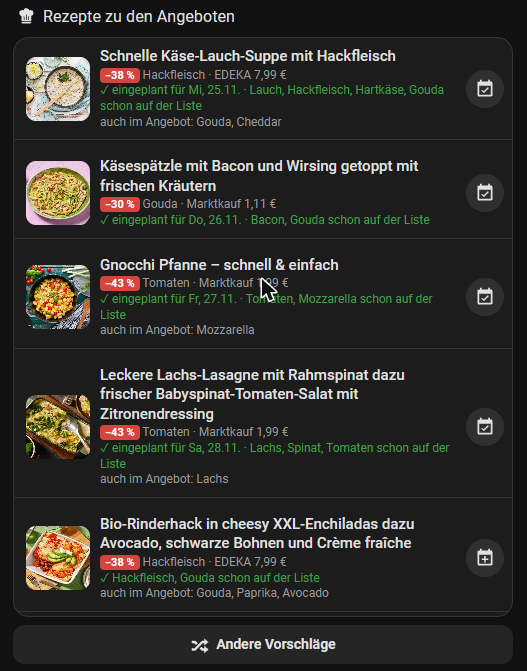
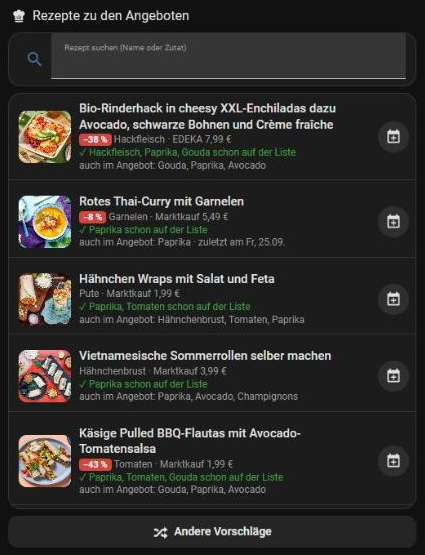
Rezeptvorschläge einstellbar: Anzahl, Plätze ohne Fleisch und Fisch, vegetarisch oder vegan
Neuer Schritt „Rezepte“ in den Einstellungen. Vegan wird aus den Zutaten erkannt.
README und Bilder zeigen die Wochenleiste.

Claude-Session: https://claude.ai/code/session_01HWdxVrkmvhkrAt14mXZQy1

diff --git a/custom_components/wochenkorb/recipes.py b/custom_components/wochenkorb/recipes.py
@@ -121,6 +121,31 @@ def is_vegetarian(ingredient_texts):
     return True
 
 
+# Tierisches außer Fleisch und Fisch (für "vegan"); pflanzliche Namensvettern wie Kokosmilch oder Erdnussbutter zählen nicht
+_PLANT_RE = re.compile(
+    r"(kokos|hafer|soja|mandel|reis|erbsen|cashew|dinkel|nuss|lupinen)[ -]?(milch|sahne|drink|joghurt|jogurt|creme|cuisine|quark|butter)|"
+    r"(erdnuss|mandel|kakao|cashew|nuss|sesam)(butter|mus)|butter(bohne|nut)|kokosfett|pflanzen(milch|sahne|butter|margarine)"
+)
+_ANIMAL_RE = re.compile(
+    r"milch|sahne|rahm|butter|käse|kaese|quark|joghurt|jogurt|schmand|cr[eè]me fra[iî]che|creme double|mascarpone|ricotta|"
+    r"mozzarella|parmesan|parmigiano|grana padano|pecorino|feta|gouda|cheddar|emmentaler|gruy|bergkäse|gorgonzola|camembert|"
+    r"halloumi|skyr|kefir|molke|ghee|\bei(er|ern|gelb|weiß|weiss|klar)?\b|eiernudel|honig|gelatine|mayonnaise|\bmayo\b|worcester"
+)
+
+
+def is_vegan(ingredient_texts):
+    """Vegetarisch und zusätzlich ohne Milchprodukte, Ei und Honig. Zutaten, die sich selbst vegan oder pflanzlich nennen, gelten."""
+    if not is_vegetarian(ingredient_texts):
+        return False
+    for text in ingredient_texts:
+        text = clean(text)
+        if re.search(r"vegan|pflanzlich", text):
+            continue
+        if _ANIMAL_RE.search(_PLANT_RE.sub(" ", text)):
+            return False
+    return True
+
+
 def clean(text):
     """Kleinschreibung, ohne weiche Trennstriche (stecken in importierten Rezepten)."""
     return (text or "").replace("", "").lower()
@@ -240,12 +265,15 @@ def _freshness(recipe, now):
     return FRESH_BONUS if days > 60 else (FRESH_BONUS * 0.6 if days > 30 else 0)
 
 
-def suggest(recipes, offers, blocked_slugs=(), limit=5, now=None, pinned=(), skipped=()):
+def suggest(recipes, offers, blocked_slugs=(), limit=5, now=None, pinned=(), skipped=(), free=MIN_FREE, meatless=1, vegan=False):
     """Rezepte, deren Hauptzutat im Angebot ist.
 
     - pinned: Rezepte, die immer zuerst stehen, auch ohne Angebot (schon Eingeplantes)
     - skipped: Rezepte, die gerade nicht gezeigt werden sollen ("andere Vorschläge")
-    - von jeder Hauptzutat zunächst nur ein Rezept, mindestens ein vegetarisches, lange nicht Gekochtes bevorzugt
+    - free: so viele neue Vorschläge stehen unter dem Eingeplanten
+    - meatless: so viele der neuen Vorschläge sind ohne Fleisch und Fisch (vegan=True: vegan), soweit es passende gibt;
+      ist die Zahl so groß wie free, gibt es nur solche Vorschläge
+    - von jeder Hauptzutat zunächst nur ein Rezept, lange nicht Gekochtes bevorzugt
 
     Liefert Tupel (slug, Anzeigename der Zutat, Angebot, Rabatt in Prozent, weitere Zutaten im Angebot).
     """
@@ -270,26 +298,35 @@ def suggest(recipes, offers, blocked_slugs=(), limit=5, now=None, pinned=(), ski
         _, top, others = rows[slug]
         return (slug, top, best[top][0], best[top][1], others)
 
-    # Eingeplantes steht immer in der Liste, auch ohne Angebot; darunter mindestens MIN_FREE neue Vorschläge
+    # Eingeplantes steht immer in der Liste, auch ohne Angebot; darunter die neuen Vorschläge
     result = [slug for slug in pinned if slug in recipes]
-    free = max(limit - len(result), MIN_FREE)
+    free = max(1, int(free))
+    wanted = max(0, min(int(meatless), free))
+    flag = "vegan" if vegan else "vegetarian"
     candidates = sorted(
         (slug for slug in rows if slug not in blocked and slug not in skipped and slug not in result),
         key=lambda slug: rows[slug][0],
     )
-    picked, per_ingredient = [], {}
-    for cap in (MAX_PER_INGREDIENT, MAX_PER_INGREDIENT + 1, limit):
-        for slug in candidates:
-            if len(picked) >= free:
-                break
-            top = rows[slug][1]
-            if slug in picked or per_ingredient.get(top, 0) >= cap:
-                continue
-            per_ingredient[top] = per_ingredient.get(top, 0) + 1
-            picked.append(slug)
-    # Unter den neuen Vorschlägen steht immer ein vegetarischer, wenn es einen passenden gibt, egal was schon eingeplant ist
-    if picked and not any(recipes[slug].get("vegetarian") for slug in picked):
-        veggie = next((slug for slug in candidates if recipes[slug].get("vegetarian")), None)
-        if veggie:
-            picked[-1] = veggie
+    picked, per_ingredient, tier = [], {}, {}
+
+    def pick(pool, count):
+        """Die besten aus pool dazunehmen: erst ein Rezept je Hauptzutat, dann zwei, dann ohne Grenze."""
+        target = len(picked) + count
+        for step, cap in enumerate((MAX_PER_INGREDIENT, MAX_PER_INGREDIENT + 1, len(rows) + 1)):
+            for slug in pool:
+                if len(picked) >= target:
+                    return
+                top = rows[slug][1]
+                if slug in picked or per_ingredient.get(top, 0) >= cap:
+                    continue
+                per_ingredient[top] = per_ingredient.get(top, 0) + 1
+                picked.append(slug)
+                tier[slug] = step
+
+    # Erst die Plätze ohne Fleisch und Fisch, dann der Rest; sollen alle fleischlos sein, wird nicht mit anderem aufgefüllt
+    pick([slug for slug in candidates if recipes[slug].get(flag)], wanted)
+    if wanted < free:
+        pick(candidates, free - len(picked))
+    # Reihenfolge: erst je Hauptzutat das beste Rezept, dann die zweiten; darin nach Wertung
+    picked.sort(key=lambda slug: (tier[slug], rows[slug][0]))
     return [row(slug) for slug in result + picked]

diff --git a/custom_components/wochenkorb/sensor.py b/custom_components/wochenkorb/sensor.py
@@ -25,6 +25,11 @@ from .const import (
     CONF_RETAILERS,
     CONF_RECIPES,
     CONF_SHOPPING_LIST,
+    CONF_SUGGESTIONS,
+    CONF_MEATLESS,
+    CONF_MEATLESS_KIND,
+    DEFAULT_SUGGESTIONS,
+    DEFAULT_MEATLESS,
     API_URL,
     HEADERS,
     SEARCH_ENTITY,
@@ -212,6 +217,9 @@ async def async_setup_entry(hass, entry, async_add_entities):
         hass, zip_code, products, retailers, recipes_enabled, shopping_list
     )
     coordinator.lists = lists
+    coordinator.suggestion_count = max(1, int(conf.get(CONF_SUGGESTIONS, DEFAULT_SUGGESTIONS) or DEFAULT_SUGGESTIONS))
+    coordinator.meatless_count = max(0, int(conf.get(CONF_MEATLESS, DEFAULT_MEATLESS) or 0))
+    coordinator.meatless_vegan = conf.get(CONF_MEATLESS_KIND) == "vegan"
     # Suchbegriff (klein) -> Liste, zu der er gehört
     coordinator.list_of = {term.lower(): entry for entry in lists for term in entry["terms"]}
     await coordinator.async_config_entry_first_refresh()
@@ -360,6 +368,9 @@ class WochenkorbDataCoordinator(DataUpdateCoordinator):
         self.products = products
         self.lists = []
         self.list_of = {}
+        self.suggestion_count = DEFAULT_SUGGESTIONS
+        self.meatless_count = DEFAULT_MEATLESS
+        self.meatless_vegan = False
         self.retailers = retailers or []
         self._mp_cache = {}
         self._mp_time = None
@@ -569,6 +580,7 @@ class WochenkorbDataCoordinator(DataUpdateCoordinator):
                 "last_made": recipe.get("last_made"),
                 "last_made_mealie": recipe.get("last_made"),
                 "vegetarian": rc.is_vegetarian(texts),
+                "vegan": rc.is_vegan(texts),
                 "ingredients": texts,
                 "steps": steps,
                 "mains": rc.main_ingredients(texts),
@@ -745,11 +757,12 @@ class WochenkorbDataCoordinator(DataUpdateCoordinator):
         for slug, recipe in self._recipes.items():
             dates = [str(d)[:10] for d in (recipe.get("last_made_mealie"), self._last_cooked.get(slug)) if d]
             recipe["last_made"] = max(dates) if dates else None
-        rows = rc.suggest(self._recipes, offers, self._cooked, pinned=pinned, skipped=self._skipped)
-        if self._skipped and len(rows) - len([r for r in rows if r[0] in pinned]) < rc.MIN_FREE:
+        wish = {"free": self.suggestion_count, "meatless": self.meatless_count, "vegan": self.meatless_vegan}
+        rows = rc.suggest(self._recipes, offers, self._cooked, pinned=pinned, skipped=self._skipped, **wish)
+        if self._skipped and len(rows) - len([r for r in rows if r[0] in pinned]) < self.suggestion_count:
             # Alle Kandidaten wurden einmal gezeigt: von vorn beginnen
             self._skipped = set()
-            rows = rc.suggest(self._recipes, offers, self._cooked, pinned=pinned)
+            rows = rc.suggest(self._recipes, offers, self._cooked, pinned=pinned, **wish)
         self._offers, self._listed = offers, listed
         for slug, label, offer, discount, others in rows:
             suggestions.append(await self._suggestion(entry, slug, label, offer, discount, others))
@@ -796,6 +809,7 @@ class WochenkorbDataCoordinator(DataUpdateCoordinator):
             "time": recipe.get("time"),
             "servings": recipe.get("servings") or 0,
             "vegetarian": bool(recipe.get("vegetarian")),
+            "vegan": bool(recipe.get("vegan")),
             # Bei Suchtreffern ohne passendes Angebot bleiben Zutat, Rabatt und Angebot leer
             "ingredient": label or "",
             "discount": discount or 0,

diff --git a/custom_components/wochenkorb/config_flow.py b/custom_components/wochenkorb/config_flow.py
@@ -2,7 +2,10 @@ import voluptuous as vol
 from homeassistant import config_entries
 from homeassistant.core import callback
 from homeassistant.helpers import selector
-from .const import DOMAIN, CONF_PRODUCTS, CONF_ZIP, CONF_RETAILERS, CONF_RECIPES, CONF_SHOPPING_LIST, CONF_LISTS
+from .const import (
+    DOMAIN, CONF_PRODUCTS, CONF_ZIP, CONF_RETAILERS, CONF_RECIPES, CONF_SHOPPING_LIST, CONF_LISTS,
+    CONF_SUGGESTIONS, CONF_MEATLESS, CONF_MEATLESS_KIND, DEFAULT_SUGGESTIONS, DEFAULT_MEATLESS,
+)
 
 # Auswahl-Eintrag zum Anlegen einer neuen Liste
 NEW_LIST = "__new__"
@@ -119,7 +122,43 @@ class WochenkorbOptionsFlowHandler(config_entries.OptionsFlow):
         return [dict(entry) for entry in self._current().get(CONF_LISTS) or []]
 
     async def async_step_init(self, user_input=None):
-        return self.async_show_menu(step_id="init", menu_options=["general", "lists"])
+        return self.async_show_menu(step_id="init", menu_options=["general", "recipes", "lists"])
+
+    def _recipe_options(self):
+        current = self._current()
+        return {
+            CONF_SUGGESTIONS: int(current.get(CONF_SUGGESTIONS, DEFAULT_SUGGESTIONS) or DEFAULT_SUGGESTIONS),
+            CONF_MEATLESS: int(current.get(CONF_MEATLESS, DEFAULT_MEATLESS) or 0),
+            CONF_MEATLESS_KIND: current.get(CONF_MEATLESS_KIND) or "vegetarian",
+        }
+
+    async def async_step_recipes(self, user_input=None):
+        """Rezeptvorschläge: Anzahl und wie viele davon ohne Fleisch und Fisch sind."""
+        if user_input is not None:
+            count = int(user_input[CONF_SUGGESTIONS])
+            data = {
+                **self._current(),
+                CONF_SUGGESTIONS: count,
+                # Mehr fleischlose Plätze als Vorschläge gibt es nicht
+                CONF_MEATLESS: min(int(user_input[CONF_MEATLESS]), count),
+                CONF_MEATLESS_KIND: user_input[CONF_MEATLESS_KIND],
+            }
+            return self.async_create_entry(title="", data=data)
+        current = self._recipe_options()
+        number = lambda low: selector.NumberSelector(
+            selector.NumberSelectorConfig(min=low, max=10, step=1, mode=selector.NumberSelectorMode.BOX)
+        )
+        schema = vol.Schema({
+            vol.Required(CONF_SUGGESTIONS, default=current[CONF_SUGGESTIONS]): number(1),
+            vol.Required(CONF_MEATLESS, default=current[CONF_MEATLESS]): number(0),
+            vol.Required(CONF_MEATLESS_KIND, default=current[CONF_MEATLESS_KIND]): selector.SelectSelector(
+                selector.SelectSelectorConfig(
+                    options=["vegetarian", "vegan"], translation_key="meatless_kind",
+                    mode=selector.SelectSelectorMode.LIST,
+                )
+            ),
+        })
+        return self.async_show_form(step_id="recipes", data_schema=schema)
 
     async def async_step_general(self, user_input=None):
         errors = {}
@@ -132,6 +171,7 @@ class WochenkorbOptionsFlowHandler(config_entries.OptionsFlow):
             else:
                 # Die freien Listen werden in einem eigenen Schritt gepflegt und bleiben hier erhalten
                 data[CONF_LISTS] = self._lists()
+                data.update(self._recipe_options())
                 return self.async_create_entry(title="", data=data)
 
         current = {**self._current(), **(user_input or {})}

diff --git a/custom_components/wochenkorb/const.py b/custom_components/wochenkorb/const.py
@@ -23,3 +23,10 @@ CONF_LISTS = "lists"
 TAB_ENTITY_PREFIX = "input_select.angebote_reiter"
 # Text-Helfer der Rezeptsuche in der Rezeptkarte
 RECIPE_SEARCH_ENTITY = "input_text.rezept_suche"
+# Rezeptvorschläge: wie viele neue Vorschläge gezeigt werden, wie viele davon ohne Fleisch und Fisch sein müssen
+# und ob diese Plätze vegetarisch oder vegan sein sollen
+CONF_SUGGESTIONS = "suggestions"
+CONF_MEATLESS = "meatless"
+CONF_MEATLESS_KIND = "meatless_kind"
+DEFAULT_SUGGESTIONS = 5
+DEFAULT_MEATLESS = 1

diff --git a/README.en.md b/README.en.md
@@ -29,6 +29,8 @@ Like the original, this is a hobby project without support.
 | --- | --- | --- |
 | <img src="docs/angebote.png" width="260" alt="Offers card with search and retailer tabs"> | <img src="docs/rezepte.png" width="260" alt="Recipe suggestions whose main ingredient is on offer"> | <img src="docs/wann-kochen.png" width="260" alt="Popup to pick the evening and the portions"> |
 
+<img src="docs/wochenleiste.png" width="820" alt="Week strip: the next ten evenings as tiles with recipe picture, own entry, or still free">
+
 
 # Upgrading from version 0.x (technical name `marktguru`)
 Since version 1.0 the integration is called `wochenkorb` technically as well: folder `custom_components/wochenkorb`, entities `sensor.wochenkorb_…`, service `wochenkorb.add_purchases`. If you use an older version, remove the old entry and the folder `custom_components/marktguru`, set the integration up again and replace `marktguru_` with `wochenkorb_` in cards, scripts and automations. The purchase history is taken over on the first start.
@@ -103,8 +105,9 @@ Everything in this section is optional. Without the Mealie integration, leave th
 
 | File | What it does |
 | --- | --- |
-| `dashboard_card_rezepte.yaml` | Recipe card: up to five Mealie recipes whose main ingredient is on offer. A tap opens ingredients and steps in a popup, the calendar button asks for the evening and, if wanted, a larger number of portions, and plans the recipe. The button "Andere Vorschläge" shows other recipes; planned ones stay. A search field (helper `input_text.rezept_suche`) searches the whole Mealie collection by name or ingredient instead; the hits can be planned in the same way. |
-| `dashboard_card_wochenplan.yaml` | The dinners of seven days from the Mealie meal plan, with arrows to page: up to half a year back (view only) and eight weeks ahead (to plan ahead; the recipe card then offers the evenings of the chosen week). Needs the helper `input_number.essen_woche` (−26 to 8, step 1). For today and later: a tap on a dish offers to move it to another evening, to change the portions or to remove it, a tap on a free evening an own entry without a recipe. |
+| `dashboard_card_wochenleiste.yaml` | Week strip: the next ten evenings as a row of tiles – recipe with picture, own entry with a matching icon, or still free. A tap on a recipe opens ingredients (converted to the planned portions) and steps with the buttons move, portions and remove; a tap on a free evening adds an own entry without a recipe. Arrows page by week: up to half a year back (view only) and eight weeks ahead. On narrow screens the row is swiped. Needs the helper `input_number.essen_woche` (−26 to 8, step 1), card-mod and the template `rezept_kachel` from `dashboard_template.yaml`. |
+| `dashboard_card_rezepte.yaml` | Recipe card: five Mealie recipes that are not planned yet and whose main ingredient is on offer. A tap opens ingredients and steps in a popup, the calendar button asks for the evening and, if wanted, a larger number of portions, and plans the recipe. The button "Andere Vorschläge" shows other recipes; planned ones stay. A search field (helper `input_text.rezept_suche`) searches the whole Mealie collection by name or ingredient instead; the hits can be planned in the same way. |
+| `dashboard_card_wochenplan.yaml` | Alternative to the week strip, as a plain list: the dinners of seven days from the Mealie meal plan, with arrows to page: up to half a year back (view only) and eight weeks ahead (to plan ahead; the recipe card then offers the evenings of the chosen week). Needs the helper `input_number.essen_woche` (−26 to 8, step 1). For today and later: a tap on a dish offers to move it to another evening, to change the portions or to remove it, a tap on a free evening an own entry without a recipe. |
 | `script_rezept_einplanen.yaml` | Puts a recipe into the Mealie meal plan on the chosen evening and adds its ingredients to the Mealie shopping list, converted to the household size. Called without a date and with a browser_mod id it asks for the evening itself. |
 | `script_rezept_ausplanen.yaml` | Removes a recipe from the meal plan again and takes its ingredients off the Mealie shopping list. |
 | `script_essen_notieren.yaml`, `script_essen_notiz_entfernen.yaml` | Free entry without a recipe in the week plan (for example "pizza out"): a tap on a free evening opens a popup with quick choices and a text field. Needs the helper `input_text.essen_notiz`. |
@@ -124,7 +127,7 @@ Replace before use: `MEALIE_EINTRAG` (config entry id of the Mealie integration)
 
 ### How the recipe suggestions work
 
-With the option `mealie_recipes` the integration reads all recipes from the Mealie integration once a day, looks for main ingredients (meat, fish, cheese, vegetables; spices and staples do not count) and loads offers for the most frequent ones as up to 20 extra search terms. These do not create offer sensors. `sensor.wochenkorb_rezepte_<zip>` carries the dinners of the next eight days in the attribute `plan` and lists what is planned for the next 14 days (also without an offer) and below it recipes whose main ingredient is on offer (five in total, but at least three new suggestions), best discount first, meat and fish weighted above cheese and vegetables. The list is mixed: at first only one recipe per main ingredient, at least one vegetarian recipe if one fits, and recipes that were not cooked for a while (Mealie's "last made") get a small bonus. Recipes from the meal plan of the last 14 days are left out, recipes planned for the coming days always stay at the top and are marked as planned. The last day a recipe was on the meal plan is given as `last_cooked` on the suggestion and decides what counts as "not cooked for a while". The whole meal plan that was read is in the attribute `kalender` (date → dinners). A press on `input_button.rezepte_neu_mischen` puts the current, unplanned suggestions aside and shows the next ones; when all have been shown it starts over. With the option `shopping_list` (a to-do entity, e.g. the Bring! list) main ingredients that are already on the list are marked. The planning script still adds all ingredients to the Mealie shopping list so that quantities can be summed up. Recipe images are copied to `www/wochenkorb_rezepte` so the card can show them without a Mealie login.
+With the option `mealie_recipes` the integration reads all recipes from the Mealie integration once a day, looks for main ingredients (meat, fish, cheese, vegetables; spices and staples do not count) and loads offers for the most frequent ones as up to 20 extra search terms. These do not create offer sensors. `sensor.wochenkorb_rezepte_<zip>` carries the dinners of the next eight days in the attribute `plan` and lists what is planned for the next 14 days (also without an offer) and below it recipes whose main ingredient is on offer (five new suggestions, the number can be set), best discount first, meat and fish weighted above cheese and vegetables. Meat and fish also count without a crossed-out price, with a fixed bonus, because an offer there usually saves more in euros than a high percentage on vegetables. The list is mixed: at first only one recipe per main ingredient, among the new suggestions one vegetarian recipe if one fits, and recipes that were not cooked for a while (Mealie's "last made") get a small bonus. Recipes from the meal plan of the last 14 days are left out, recipes planned for the coming days always stay at the top and are marked as planned. The last day a recipe was on the meal plan is given as `last_cooked` on the suggestion and decides what counts as "not cooked for a while". Under Settings → Devices & services → Wochenkorb → Configure → "Recipes" you can set how many new suggestions there are, how many of them have to be without meat and fish (0 to all) and whether these slots are vegetarian or vegan. With the same number as the suggestions there are only such recipes. Vegetarian and vegan are detected from the ingredient texts (vegan: additionally no dairy, no egg, no honey), which can be wrong in single cases. The whole meal plan that was read is in the attribute `kalender` (date → dinners, recipes with their picture); ingredients and steps of the recipes of the next three weeks are in the attribute `plan_details`. A press on `input_button.rezepte_neu_mischen` puts the current, unplanned suggestions aside and shows the next ones; when all have been shown it starts over. With the option `shopping_list` (a to-do entity, e.g. the Bring! list) main ingredients that are already on the list are marked. The planning script still adds all ingredients to the Mealie shopping list so that quantities can be summed up. Recipe images are copied to `www/wochenkorb_rezepte` so the card can show them without a Mealie login.
 
 ## 8. Optional: purchase history from receipts
 

diff --git a/README.md b/README.md
@@ -12,6 +12,8 @@ Die Angebote kommen aus der Suche von Marktguru und von meinprospekt.de. Für be
 | --- | --- | --- |
 | <img src="docs/angebote.png" width="260" alt="Angebotskarte mit Suche und Reitern je Markt"> | <img src="docs/rezepte.png" width="260" alt="Rezeptvorschläge, deren Hauptzutat im Angebot ist"> | <img src="docs/wann-kochen.png" width="260" alt="Fenster zur Auswahl von Abend und Portionen"> |
 
+<img src="docs/wochenleiste.png" width="820" alt="Wochenleiste: die nächsten zehn Abende als Kacheln mit Rezeptbild, eigenem Eintrag oder noch frei">
+
 ## Über diesen Fork
 
 Wochenkorb ist aus einem Fork von [thorschtn/ha-marktguru](https://github.com/thorschtn/ha-marktguru) entstanden; die ursprüngliche Integration stammt von dort. Der Fork ergänzt:
@@ -86,8 +88,9 @@ Alles in diesem Abschnitt ist optional. Ohne die Mealie-Integration bleibt die O
 
 | Datei | Zweck |
 | --- | --- |
-| `dashboard_card_rezepte.yaml` | Rezeptkarte: bis zu fünf Mealie-Rezepte, deren Hauptzutat im Angebot ist. Ein Tipp öffnet Zutaten und Zubereitung, der Kalender-Knopf fragt nach dem Abend und auf Wunsch nach einer größeren Portionenzahl und plant das Rezept ein. Der Knopf „Andere Vorschläge“ zeigt andere Rezepte; Eingeplantes bleibt stehen. Ein Suchfeld (Helfer `input_text.rezept_suche`) durchsucht stattdessen die ganze Mealie-Sammlung nach Name oder Zutat; die Treffer lassen sich genauso einplanen. |
-| `dashboard_card_wochenplan.yaml` | Die Abendessen von sieben Tagen aus dem Mealie-Essensplan, mit Pfeilen zum Blättern: bis zu einem halben Jahr zurück (nur zum Ansehen) und acht Wochen voraus (zum Vorausplanen; die Rezeptkarte bietet dann die Abende der gewählten Woche an). Braucht den Helfer `input_number.essen_woche` (−26 bis 8, Schritt 1). Für heute und später gilt: ein Tipp auf ein Gericht bietet an, es zu verschieben, die Portionen zu ändern oder es vom Plan zu nehmen, ein Tipp auf einen freien Abend einen eigenen Eintrag ohne Rezept. |
+| `dashboard_card_wochenleiste.yaml` | Wochenleiste: die nächsten zehn Abende als Kachelreihe – Rezept mit Bild, eigener Eintrag mit passendem Symbol oder noch frei. Ein Tipp auf ein Rezept öffnet Zutaten (umgerechnet auf die eingeplanten Portionen) und Zubereitung mit den Knöpfen Verschieben, Portionen und Entfernen; ein Tipp auf einen freien Abend trägt einen eigenen Eintrag ohne Rezept ein. Pfeile blättern wochenweise: bis zu einem halben Jahr zurück (nur zum Ansehen) und acht Wochen voraus. Auf schmalen Bildschirmen wird die Reihe gewischt. Braucht den Helfer `input_number.essen_woche` (−26 bis 8, Schritt 1), card-mod und die Vorlage `rezept_kachel` aus `dashboard_template.yaml`. |
+| `dashboard_card_rezepte.yaml` | Rezeptkarte: fünf noch nicht eingeplante Mealie-Rezepte, deren Hauptzutat im Angebot ist. Ein Tipp öffnet Zutaten und Zubereitung, der Kalender-Knopf fragt nach dem Abend und auf Wunsch nach einer größeren Portionenzahl und plant das Rezept ein. Der Knopf „Andere Vorschläge“ zeigt andere Rezepte; Eingeplantes bleibt stehen. Ein Suchfeld (Helfer `input_text.rezept_suche`) durchsucht stattdessen die ganze Mealie-Sammlung nach Name oder Zutat; die Treffer lassen sich genauso einplanen. |
+| `dashboard_card_wochenplan.yaml` | Alternative zur Wochenleiste, als schlichte Liste: die Abendessen von sieben Tagen aus dem Mealie-Essensplan, mit Pfeilen zum Blättern: bis zu einem halben Jahr zurück (nur zum Ansehen) und acht Wochen voraus (zum Vorausplanen; die Rezeptkarte bietet dann die Abende der gewählten Woche an). Braucht den Helfer `input_number.essen_woche` (−26 bis 8, Schritt 1). Für heute und später gilt: ein Tipp auf ein Gericht bietet an, es zu verschieben, die Portionen zu ändern oder es vom Plan zu nehmen, ein Tipp auf einen freien Abend einen eigenen Eintrag ohne Rezept. |
 | `script_rezept_einplanen.yaml` | Trägt ein Rezept am gewählten Abend in den Essensplan ein und legt seine Zutaten, umgerechnet auf die Portionenzahl, auf die Mealie-Einkaufsliste. Ohne Datum und mit browser_mod-Kennung fragt es selbst nach dem Abend. |
 | `script_rezept_ausplanen.yaml` | Nimmt ein Rezept wieder vom Plan und seine Zutaten von der Mealie-Einkaufsliste. |
 | `script_essen_notieren.yaml`, `script_essen_notiz_entfernen.yaml` | Freier Eintrag ohne Rezept im Wochenplan (zum Beispiel „Pizza auswärts“): ein Tipp auf einen freien Abend öffnet ein Fenster mit Schnellauswahl und Textfeld. Braucht den Helfer `input_text.essen_notiz`. |
@@ -113,7 +116,7 @@ Vor dem Einsatz ersetzen: `MEALIE_EINTRAG` (ID des Konfigurationseintrags der Me
 
 Mit der Option `mealie_recipes` liest die Integration einmal täglich alle Rezepte aus der Mealie-Integration, sucht darin Hauptzutaten (Fleisch, Fisch, Käse, Gemüse; Gewürze und Grundvorräte zählen nicht) und lädt für die häufigsten Angebote, als bis zu 20 zusätzliche Suchbegriffe. Diese erzeugen keine Angebotssensoren.
 
-`sensor.wochenkorb_rezepte_<plz>` führt im Attribut `plan` die Abendessen der nächsten acht Tage und nennt, was in den nächsten 14 Tagen eingeplant ist (auch ohne Angebot), und darunter Rezepte, deren Hauptzutat im Angebot ist (zusammen fünf, mindestens aber drei neue Vorschläge): bester Rabatt zuerst, Fleisch und Fisch höher gewichtet als Käse und Gemüse. Die Liste ist gemischt: zunächst nur ein Rezept je Hauptzutat, mindestens ein vegetarisches, wenn eines passt, und Rezepte, die länger nicht gekocht wurden (Mealies „zuletzt gekocht“), bekommen einen kleinen Bonus. Rezepte aus dem Essensplan der letzten 14 Tage bleiben außen vor; für die nächsten Tage Eingeplantes steht immer oben und ist markiert. Wann ein Rezept zuletzt auf dem Essensplan stand, steht als `last_cooked` am Vorschlag; danach richtet sich auch „lange nicht gekocht“. Der ganze gelesene Essensplan steht im Attribut `kalender` (Datum → Abendessen). Ein Druck auf `input_button.rezepte_neu_mischen` stellt die aktuellen, nicht eingeplanten Vorschläge zurück und zeigt die nächsten; sind alle gezeigt, beginnt es von vorn.
+`sensor.wochenkorb_rezepte_<plz>` führt im Attribut `plan` die Abendessen der nächsten acht Tage und nennt, was in den nächsten 14 Tagen eingeplant ist (auch ohne Angebot), und darunter Rezepte, deren Hauptzutat im Angebot ist (fünf neue Vorschläge, die Zahl ist einstellbar): bester Rabatt zuerst, Fleisch und Fisch höher gewichtet als Käse und Gemüse. Fleisch und Fisch zählen auch ohne Streichpreis, mit einem festen Bonus, weil ein Angebot dort in Euro meist mehr spart als ein hoher Prozentwert auf Gemüse. Die Liste ist gemischt: zunächst nur ein Rezept je Hauptzutat, unter den neuen Vorschlägen ein vegetarisches, wenn eines passt, und Rezepte, die länger nicht gekocht wurden (Mealies „zuletzt gekocht“), bekommen einen kleinen Bonus. Rezepte aus dem Essensplan der letzten 14 Tage bleiben außen vor; für die nächsten Tage Eingeplantes steht immer oben und ist markiert. Wann ein Rezept zuletzt auf dem Essensplan stand, steht als `last_cooked` am Vorschlag; danach richtet sich auch „lange nicht gekocht“. Unter Einstellungen → Geräte & Dienste → Wochenkorb → Konfigurieren → „Rezepte“ lässt sich festlegen, wie viele neue Vorschläge es gibt, wie viele davon ohne Fleisch und Fisch sein sollen (0 bis alle) und ob diese Plätze vegetarisch oder vegan sind. Steht dort dieselbe Zahl wie bei den Vorschlägen, gibt es nur noch solche Rezepte. Vegetarisch und vegan erkennt die Integration aus den Zutatentexten (vegan: zusätzlich kein Milchprodukt, kein Ei, kein Honig); das kann im Einzelfall danebenliegen. Der ganze gelesene Essensplan steht im Attribut `kalender` (Datum → Abendessen, bei Rezepten mit Bild); Zutaten und Zubereitung der Rezepte der nächsten drei Wochen stehen im Attribut `plan_details`. Ein Druck auf `input_button.rezepte_neu_mischen` stellt die aktuellen, nicht eingeplanten Vorschläge zurück und zeigt die nächsten; sind alle gezeigt, beginnt es von vorn.
 
 Mit der Option `shopping_list` (eine To-do-Entität, etwa die Bring!-Liste) werden Hauptzutaten markiert, die schon auf der Liste stehen. Das Einplan-Skript legt trotzdem alle Zutaten auf die Mealie-Einkaufsliste, damit sich die Mengen addieren lassen. Rezeptbilder werden nach `www/wochenkorb_rezepte` kopiert, damit die Karte sie ohne Mealie-Anmeldung zeigen kann.
 
